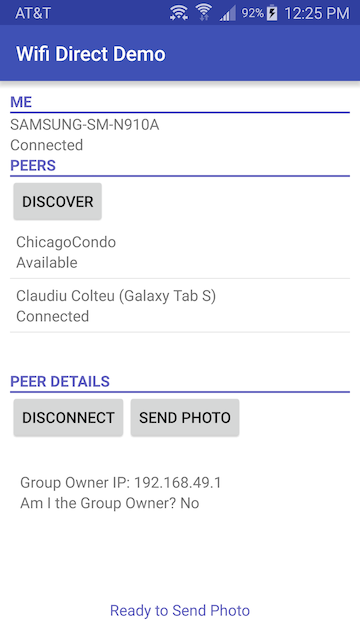
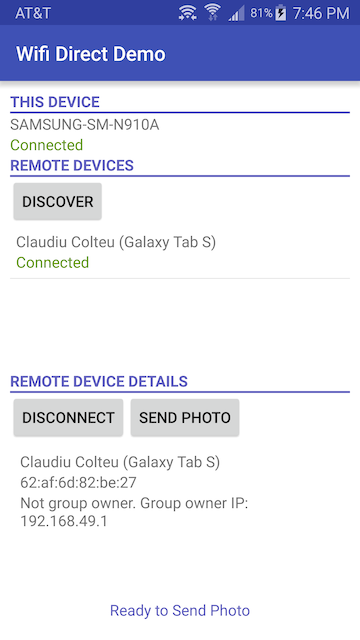
UI adjustments

diff --git a/WifiDirectDemo/app/src/main/java/com/cc/wifidirectdemo/MainActivity.java b/WifiDirectDemo/app/src/main/java/com/cc/wifidirectdemo/MainActivity.java
@@ -80,9 +80,9 @@ public class MainActivity extends AppCompatActivity {
     }
 
     public void resetDetailsData() {
+        ((TextView) detailView.findViewById(R.id.device_name)).setText("");
         ((TextView) detailView.findViewById(R.id.device_address)).setText("");
-        ((TextView) detailView.findViewById(R.id.device_info)).setText("");
-        ((TextView) detailView.findViewById(R.id.group_owner)).setText("");
+        ((TextView) detailView.findViewById(R.id.group_data)).setText("");
         ((TextView) detailView.findViewById(R.id.status_text)).setText("");
         detailView.findViewById(R.id.btn_connect).setVisibility(View.VISIBLE);
         detailView.findViewById(R.id.open_received_photo).setVisibility(View.GONE);
@@ -108,6 +108,15 @@ public class MainActivity extends AppCompatActivity {
         view.setText(device.deviceName);
         view = (TextView) findViewById(R.id.my_status);
         view.setText(getDeviceStatus(device.status));
+        if (device.status == WifiP2pDevice.CONNECTED) {
+            view.setTextColor(getResources().getColor(android.R.color.holo_green_dark));
+        } else {
+            view.setTextColor(getResources().getColor(android.R.color.black));
+        }
+    }
+
+    private void updateRemoteDevice(WifiP2pDevice device) {
+        this.remoteConnectedDevice = device;
     }
 
     @Override
@@ -206,8 +215,9 @@ public class MainActivity extends AppCompatActivity {
                 detailView.findViewById(R.id.btn_connect).setVisibility(View.VISIBLE);
                 detailView.findViewById(R.id.btn_disconnect).setVisibility(View.GONE);
                 detailView.findViewById(R.id.btn_send_photo).setVisibility(View.GONE);
-                ((TextView) detailView.findViewById(R.id.device_address)).setText("Address: " + remoteConnectedDevice.deviceAddress);
-                ((TextView) detailView.findViewById(R.id.device_info)).setText("Name: " + remoteConnectedDevice.deviceName); //device.toString()
+                ((TextView) detailView.findViewById(R.id.device_name)).setText("" + remoteConnectedDevice.deviceName);
+                ((TextView) detailView.findViewById(R.id.device_address)).setText("" + remoteConnectedDevice.deviceAddress);
+
             }
         });
 
@@ -225,8 +235,9 @@ public class MainActivity extends AppCompatActivity {
                 detailView.setVisibility(View.VISIBLE);
 
                 // update UI
-                ((TextView) detailView.findViewById(R.id.group_owner)).setText("Am I the Group Owner? " + ((info.isGroupOwner == true) ? "Yes" : "No"));
-                ((TextView) detailView.findViewById(R.id.device_info)).setText("Group Owner IP: " + info.groupOwnerAddress.getHostAddress());
+                ((TextView) detailView.findViewById(R.id.device_name)).setText("" + remoteConnectedDevice.deviceName);
+                ((TextView) detailView.findViewById(R.id.device_address)).setText("" + remoteConnectedDevice.deviceAddress);
+                ((TextView) detailView.findViewById(R.id.group_data)).setText(((info.isGroupOwner == true) ? "Group owner." : "Not group owner.") + " Group owner IP: " + info.groupOwnerAddress.getHostAddress());
 
                 // After the group negotiation, we assign the group owner as the file
                 // server. The file server is single threaded, single connection server
@@ -487,6 +498,12 @@ public class MainActivity extends AppCompatActivity {
                 }
                 if (bottom != null) {
                     bottom.setText(getDeviceStatus(device.status));
+                    if (device.status == WifiP2pDevice.CONNECTED) {
+                        bottom.setTextColor(getResources().getColor(android.R.color.holo_green_dark));
+                        updateRemoteDevice(device);
+                    } else {
+                        bottom.setTextColor(getResources().getColor(android.R.color.black));
+                    }
                 }
             }
             return v;
